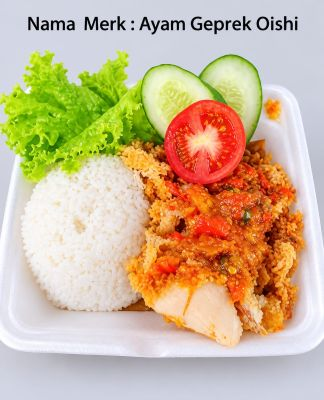
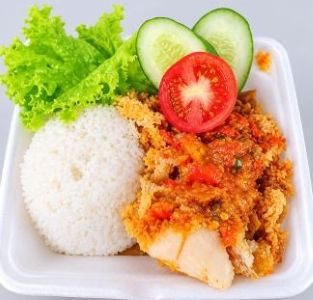
new styles.css and images

diff --git a/assets/css/styles.css b/assets/css/styles.css
@@ -385,23 +385,23 @@ h1, h2, h3 { font-family: var(--heading); }
 .published-article-body h3 { margin: 26px 0 12px; color: var(--ink); font-size: 22px; line-height: 1.4; }
 .published-article-body ul, .published-article-body ol { margin: 0 0 22px; padding-left: 28px; }
 .published-article-body {
-    text-align:justify;
+    text-align:auto;
 }
 
 .published-article-body figure {
     display: inline-block;
     margin: 32px auto;
     padding: 10px;
-    background: transparent;
+    background: goldenrod;
     border: 1px solid var(--blue);
     border-radius: 20px;
-    box-shadow: 0 4px 12px rgba(218, 165, 32, 0.35);
+    box-shadow: 0 4px 12px var(--blue);
     text-align: center;
 }
 
 .published-article-body figure img {
     display:block;
-    text-align:center;
+    text-align: center;
     max-width: 100%;
     height: auto;
 }
